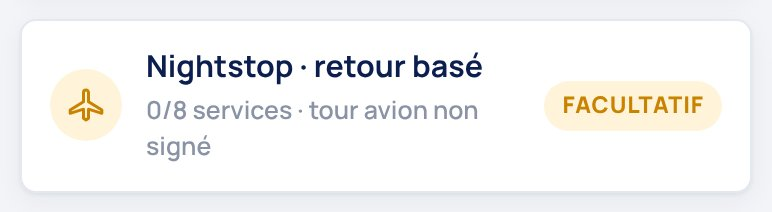
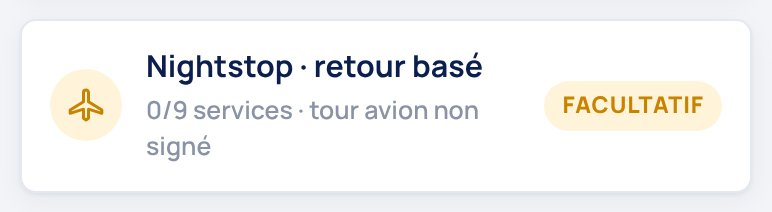
v3.51.3: Nightstop interrupteurs Oui/Non, GPU, cases par défaut retour/départ basé, croix déplaçable par appui long
Claude-Session: https://claude.ai/code/session_01BEmDqkNWhievWY6FKKJQpQ

Changed region(s): [[0.2176, 0.4811, 0.6218, 0.566]]

diff --git a/nightstop.js b/nightstop.js
@@ -5,7 +5,8 @@
    Facultative pour l'instant, comme l'auto-contrôle (NS_REQUIRED = false) :
    deviendra obligatoire avec le serveur des rapports.
    Données du vol dans le champ caché Nightstop :
-   { sv:{ toilV, toilR, eauV, eauR, men:'S'|'DC'|'DI'|'', ech, asu, tr:'BELLOVA'|'ASSISTAIR'|'', deg, dec },
+   { sv:{ toilV, toilR, eauV, eauR, men:'S'|'DC'|'DI'|'', gpu, ech, asu, tr:'BELLOVA'|'ASSISTAIR'|'', deg, dec },
+     def:'arr'|'dep' (cases par défaut posées), touched (services modifiés à la main),
      hs:{ on, ok, n, h, s },                       fouille soutes (retour basé, arrivée pays tiers)
      ta:{ sv:'OUI'|'NON'|'', dm:'OUI'|'NON'|'', x:[[u,v]…], n, h, s } }   tour avion
    Les croix sont en coordonnées relatives (0 à 1) sur la silhouette img/silhouette-b737.png.
@@ -17,17 +18,24 @@ const NS_REQUIRED = false;
   const esc = v => String(v == null ? '' : v).replace(/[&<>"]/g, c => ({'&':'&amp;','<':'&lt;','>':'&gt;','"':'&quot;'}[c]));
   const IMG = './img/silhouette-b737.png';
 
-  // Services de la feuille papier (GPU, connexion / déconnexion retirés ; ménage Tidy / Full remplacé par S, DC, DI)
+  // Services de la feuille papier (connexion / déconnexion GPU retirées ; ménage Tidy / Full remplacé par S, DC, DI)
+  // tg : interrupteur Oui / Non (Non par défaut)
   const SV = [
     { k:'toil', t:'Toilettes', opts:[['toilV','Vidange'], ['toilR','Remplissage']] },
     { k:'eau',  t:'Eau potable', opts:[['eauV','Vidange'], ['eauR','Remplissage']] },
     { k:'men',  t:'Ménage', one:'men', opts:[['S','S'], ['DC','DC'], ['DI','DI']] },
-    { k:'ech',  t:'2 échelles', opts:[['ech','Fait']] },
-    { k:'asu',  t:'ASU', opts:[['asu','Fait']] },
+    { k:'gpu',  t:'GPU', tg:true, opts:[['gpu','Oui']] },
+    { k:'ech',  t:'2 échelles', tg:true, opts:[['ech','Oui']] },
+    { k:'asu',  t:'ASU', tg:true, opts:[['asu','Oui']] },
     { k:'tr',   t:'Tractage', one:'tr', opts:[['BELLOVA','Bellova'], ['ASSISTAIR','Assist\'Air']] },
-    { k:'deg',  t:'Dégivrage', opts:[['deg','Fait']] },
-    { k:'dec',  t:'Collecte déchets', opts:[['dec','Fait']] },
+    { k:'deg',  t:'Dégivrage', tg:true, opts:[['deg','Oui']] },
+    { k:'dec',  t:'Collecte déchets', tg:true, opts:[['dec','Oui']] },
   ];
+  // Cases cochées d'office à la première ouverture (Hugo) : retour basé / départ basé
+  const SV_DEF = {
+    arr:{ toilV:true, eauV:true, men:'S', gpu:true, dec:true },
+    dep:{ toilR:true, eauR:true },
+  };
 
   window.nsMode = function(){
     if(val('From') === 'BVA') return 'dep';
@@ -49,7 +57,7 @@ const NS_REQUIRED = false;
   }
   const svDone = o => SV.filter(s => s.one ? !!o.sv[s.one] : s.opts.some(([k]) => o.sv[k])).length;
   function started(o){
-    return svDone(o) > 0 || o.hs.on || o.ta.sv || o.ta.dm || o.ta.x.length || o.ta.n || o.ta.s;
+    return (o.touched && svDone(o) > 0) || o.hs.on || o.ta.sv || o.ta.dm || o.ta.x.length || o.ta.s;
   }
   function date(){
     const d = ($('Date')?.value || '').split('-');
@@ -109,8 +117,15 @@ const NS_REQUIRED = false;
       + '<div><small>Type</small><b class="ns-mode">' + (m === 'arr' ? 'Arrivée' : 'Départ') + '</b></div>'
       + '</div>';
 
+    // cases par défaut, tant que les services n'ont pas été touchés à la main
+    if(m && !o.touched && o.def !== m){ o.sv = Object.assign({}, SV_DEF[m]); o.def = m; set(o); }
     h += '<div class="ac-sec">Services</div><div class="ac-card ns-sv">';
     SV.forEach(s => {
+      if(s.tg){
+        const on = !!o.sv[s.k];
+        h += '<div class="ns-row"><span>' + s.t + '</span><button type="button" class="ns-tg' + (on ? ' on' : '') + '" data-tg="' + s.k + '" role="switch" aria-checked="' + on + '"><b>' + (on ? 'Oui' : 'Non') + '</b><i></i></button></div>';
+        return;
+      }
       h += '<div class="ns-row"><span>' + s.t + '</span><span class="ns-cs">'
         + s.opts.map(([k, t]) => chip(s.one ? o.sv[s.one] === k : !!o.sv[k], s.one ? 'data-one="' + s.one + '" data-v="' + k + '"' : 'data-sv="' + k + '"', t)).join('')
         + '</span></div>';
@@ -151,10 +166,14 @@ const NS_REQUIRED = false;
   const upd = fn => { const o = get(); fn(o); set(o); };
   function bind(){
     const body = $('nsBody');
-    body.querySelectorAll('[data-sv]').forEach(b => b.onclick = () => { upd(o => o.sv[b.dataset.sv] = !o.sv[b.dataset.sv]); b.classList.toggle('on'); });
+    body.querySelectorAll('[data-sv]').forEach(b => b.onclick = () => { upd(o => { o.sv[b.dataset.sv] = !o.sv[b.dataset.sv]; o.touched = 1; }); b.classList.toggle('on'); });
+    body.querySelectorAll('[data-tg]').forEach(b => b.onclick = () => {
+      const k = b.dataset.tg; upd(o => { o.sv[k] = !o.sv[k]; o.touched = 1; });
+      const on = !!get().sv[k]; b.classList.toggle('on', on); b.setAttribute('aria-checked', on); b.querySelector('b').textContent = on ? 'Oui' : 'Non';
+    });
     body.querySelectorAll('[data-one]').forEach(b => b.onclick = () => {
       const k = b.dataset.one, v = b.dataset.v;
-      upd(o => o.sv[k] = o.sv[k] === v ? '' : v);
+      upd(o => { o.sv[k] = o.sv[k] === v ? '' : v; o.touched = 1; });
       body.querySelectorAll('[data-one="' + k + '"]').forEach(x => x.classList.toggle('on', x === b && get().sv[k] === v));
     });
     body.querySelectorAll('[data-hs]').forEach(b => b.onclick = () => { upd(o => o.hs.on = b.dataset.hs === 'on'); render(); requestAnimationFrame(() => document.querySelectorAll('#nsBody canvas[data-sig]').forEach(sigInit)); });
@@ -267,19 +286,56 @@ const NS_REQUIRED = false;
   };
   window.nsFullUndo = function(){ upd(o => o.ta.x.pop()); fullPaint(); };
   window.nsFullClear = function(){ upd(o => o.ta.x = []); fullPaint(); };
-  function fullTap(e){
-    const img = $('nsFullPlane').querySelector('img'); if(!img) return;
+  // position (u, v) de 0 à 1 sur la silhouette ; téléphone tenu en portrait : la scène est tournée de 90°
+  function fullUV(e){
+    const img = $('nsFullPlane').querySelector('img'); if(!img) return null;
     const r = img.getBoundingClientRect();
-    // téléphone tenu en portrait : la scène est tournée de 90° (coordonnées à convertir)
     let u, v;
     if($('nsFull').classList.contains('rot')){ u = (e.clientY - r.top) / r.height; v = (r.right - e.clientX) / r.width; }
     else { u = (e.clientX - r.left) / r.width; v = (e.clientY - r.top) / r.height; }
-    if(u < 0 || u > 1 || v < 0 || v > 1) return;
     const ar = img.naturalWidth && img.naturalHeight ? img.naturalWidth / img.naturalHeight : 2.33;
+    return { u, v, ar };
+  }
+  const clamp = n => Math.min(1, Math.max(0, n));
+  const nearX = (x, p) => x.findIndex(([a, b]) => Math.hypot((a - p.u) * p.ar, b - p.v) < 0.045);
+  // appui court : pose une croix, ou retire celle touchée. Appui long (0,35 s) sur une croix : on la fait glisser
+  let press = null;
+  function fullDown(e){
+    const p = fullUV(e); if(!p) return;
+    e.preventDefault();
+    $('nsFullPlane').setPointerCapture?.(e.pointerId);
+    const i = nearX(get().ta.x, p);
+    press = { id:e.pointerId, x:e.clientX, y:e.clientY, p, i, drag:false, moved:false };
+    if(i >= 0) press.t = setTimeout(() => {
+      if(!press || press.moved) return;
+      press.drag = true;
+      const el = $('nsFullPlane').querySelectorAll('.ns-x')[i]; if(el) el.classList.add('is-drag');
+      try{ navigator.vibrate && navigator.vibrate(15); }catch(err){}
+    }, 350);
+  }
+  function fullMove(e){
+    if(!press || e.pointerId !== press.id) return;
+    if(Math.hypot(e.clientX - press.x, e.clientY - press.y) > 8) press.moved = true;
+    if(!press.drag) return;
+    e.preventDefault();
+    const p = fullUV(e), el = $('nsFullPlane').querySelectorAll('.ns-x')[press.i];
+    if(p && el){ press.p = p; el.style.left = (clamp(p.u) * 100).toFixed(2) + '%'; el.style.top = (clamp(p.v) * 100).toFixed(2) + '%'; }
+  }
+  function fullUp(e){
+    if(!press || e.pointerId !== press.id) return;
+    const pr = press; press = null; clearTimeout(pr.t);
+    if(e.type === 'pointercancel') return fullPaint();
+    if(pr.drag){
+      upd(o => { if(o.ta.x[pr.i]) o.ta.x[pr.i] = [+clamp(pr.p.u).toFixed(4), +clamp(pr.p.v).toFixed(4)]; });
+      return fullPaint();
+    }
+    if(pr.moved) return;
+    const p = pr.p;
+    if(p.u < 0 || p.u > 1 || p.v < 0 || p.v > 1) return;
     upd(o => {
-      const near = o.ta.x.findIndex(([a, b]) => Math.hypot((a - u) * ar, b - v) < 0.045);
+      const near = nearX(o.ta.x, p);
       if(near >= 0) o.ta.x.splice(near, 1);
-      else { o.ta.x.push([+u.toFixed(4), +v.toFixed(4)]); o.ta.dm = 'OUI'; }
+      else { o.ta.x.push([+p.u.toFixed(4), +p.v.toFixed(4)]); o.ta.dm = 'OUI'; }
     });
     fullPaint();
   }
@@ -306,7 +362,7 @@ const NS_REQUIRED = false;
     const sec = t => { c.fillStyle = '#E9EDF3'; c.fillRect(P, y, W - 2 * P, 34); c.fillStyle = '#0B1E4F'; c.font = '800 16px Manrope, sans-serif'; c.fillText(t.toUpperCase(), P + 12, y + 17); y += 34; };
     const row = (k, v) => { c.strokeStyle = '#d5dde7'; c.lineWidth = 1; c.strokeRect(P, y, W - 2 * P, 32); c.fillStyle = '#0f1723'; c.font = '600 17px Manrope, sans-serif'; c.fillText(k, P + 12, y + 16); c.font = '700 17px Manrope, sans-serif'; c.fillText(v, W / 2, y + 16); y += 32; };
     sec('Services');
-    SV.forEach(s => row(s.t, s.one ? (s.opts.find(([k]) => k === o.sv[s.one]) || ['', '—'])[1] : s.opts.filter(([k]) => o.sv[k]).map(([, t]) => t).join(' + ') || '—'));
+    SV.forEach(s => row(s.t, s.tg ? (o.sv[s.k] ? 'Oui' : 'Non') : s.one ? (s.opts.find(([k]) => k === o.sv[s.one]) || ['', '—'])[1] : s.opts.filter(([k]) => o.sv[k]).map(([, t]) => t).join(' + ') || '—'));
     if(m === 'arr' && o.hs.on){ y += 12; sec('Fouille des soutes · arrivée pays tiers'); row('Hold security check / search', o.hs.ok ? 'Effectué' : 'Non coché'); row('Nom · heure', (o.hs.n || '—') + ' · ' + (o.hs.h || '--:--') + (o.hs.s ? '  · signé' : '')); }
     y += 12; sec('Tour avion');
     row('Soutes vidées et contrôlées', o.ta.sv || '—');
@@ -371,7 +427,10 @@ const NS_REQUIRED = false;
   function init(){
     const f = $('nsFull');
     if(f){
-      $('nsFullPlane').addEventListener('click', fullTap);
+      const fp = $('nsFullPlane');
+      fp.addEventListener('pointerdown', fullDown); fp.addEventListener('pointermove', fullMove);
+      fp.addEventListener('pointerup', fullUp); fp.addEventListener('pointercancel', fullUp);
+      fp.addEventListener('contextmenu', e => e.preventDefault());
       window.addEventListener('resize', () => {
         if(f.style.display !== 'none') fullLayout();
         if($('nsModal').style.display !== 'none') document.querySelectorAll('#nsBody canvas[data-sig]').forEach(sigInit);

diff --git a/manuel.html b/manuel.html
@@ -132,7 +132,7 @@ mark{background:var(--mark);color:inherit;border-radius:3px;padding:0 1px}
 <script>
 // Contenu du manuel : [groupe, id, titre, captures (manuel/img/*.jpg), texte HTML]
 // IMGV : à changer quand des captures sont refaites (sinon le navigateur garde les anciennes)
-const IMGV = '7';
+const IMGV = '8';
 const I = (f, c) => [f, c];
 // gros plans (captures recadrées, haute définition) affichés sous le texte de la rubrique
 const ZM = {
@@ -291,11 +291,11 @@ const S = [
 <p><span class="k">Feuille</span> partage ou télécharge la feuille en image. Elle est <b>facultative</b> pour valider dans la version actuelle, et deviendra <b>obligatoire</b> une fois le serveur des rapports mis en place.</p>`],
 ['Retard et validation','nightstop','Nightstop & tour avion',[I('nightstop','Prestations'),I('nightstop-tour','Tour avion')],`
 <p>Pour les vols basés : <b>départ basé</b> (From = BVA) et <b>retour basé</b> (To = BVA). La ligne <span class="k">Nightstop</span> apparaît alors dans l'onglet Retard, au-dessus de Valider le vol. Elle remplace la feuille papier « Checklist &amp; suivi des prestations nightstop » remise au responsable piste.</p>
-<ul><li><b>Prestations</b> : toilettes et eau potable (vidange / remplissage), ménage <b>S / DC / DI</b>, 2 échelles, ASU, tractage (Bellova / Assist'Air), dégivrage, collecte déchets. Un appui coche ou décoche.</li>
+<ul><li><b>Prestations</b> : toilettes et eau potable (vidange / remplissage), ménage <b>S / DC / DI</b>, tractage (Bellova / Assist'Air), et des interrupteurs <b>Oui / Non</b> (Non par défaut) pour GPU, 2 échelles, ASU, dégivrage et collecte déchets. Cases cochées d'office à l'ouverture : <b>retour basé</b> = vidange toilettes, vidange eau potable, ménage S, GPU et collecte déchets ; <b>départ basé</b> = remplissage toilettes et remplissage eau potable. Tout reste modifiable.</li>
 <li><b>Fouille des soutes</b> (hold security search) : retour basé uniquement, à activer quand le vol arrive d'un pays tiers. Nom, heure et signature.</li>
 <li><b>Tour avion</b> : soutes vidées et contrôlées, dommages constatés, nom, heure et signature.</li></ul>
 <p>L'<b>heure</b> se remplit toute seule à la signature (modifiable, ou <span class="k">Now</span>). Le <b>nom</b> saisi pour la fouille est repris pour le tour avion, et inversement ; les noms déjà utilisés sont proposés en suggestion.</p>
-<p>Les dommages se notent par des <b>croix sur la silhouette</b> : dès qu'une croix est posée, « Dommage(s) constaté(s) » passe à <b>Oui</b> et ne peut plus être mis à Non tant qu'il reste une croix. <span class="k">Plein écran</span> passe la silhouette en grand, en paysage (si le téléphone est tenu droit, l'image pivote d'elle-même). Un appui pose une croix, un appui sur une croix l'enlève ; <span class="k">Annuler la dernière</span> et <span class="k">Tout effacer</span> sont dans la barre du haut.</p>
+<p>Les dommages se notent par des <b>croix sur la silhouette</b> : dès qu'une croix est posée, « Dommage(s) constaté(s) » passe à <b>Oui</b> et ne peut plus être mis à Non tant qu'il reste une croix. <span class="k">Plein écran</span> passe la silhouette en grand, en paysage (si le téléphone est tenu droit, l'image pivote d'elle-même). Un appui pose une croix, un appui sur une croix l'enlève, un <b>appui long</b> sur une croix permet de la faire glisser ailleurs ; <span class="k">Annuler la dernière</span> et <span class="k">Tout effacer</span> sont dans la barre du haut.</p>
 <p><span class="k">Feuille</span> partage ou télécharge la feuille complète en image, silhouette comprise. Le contenu est repris dans le rapport du vol.</p>
 <div class="tip info">Feuille <b>facultative</b> dans la version actuelle, comme l'auto-contrôle. Elle deviendra <b>obligatoire</b> une fois le serveur des rapports mis en place.</div>`],
 ['Retard et validation','valider','Valider le vol',[I('retard','Valider le vol')],`

diff --git a/test/ns109.js b/test/ns109.js
@@ -15,13 +15,20 @@ await set('From', 'BVA'); await p.waitForTimeout(1200);
 o.dep = await p.evaluate(() => [nsMode(), document.getElementById('nsRowT').textContent, document.getElementById('nsRowSt').textContent]);
 await set('From', 'OPO'); await set('To', 'BVA'); await p.waitForTimeout(1200);
 await p.click('#nsRow'); await p.waitForTimeout(400);
-await p.click('[data-sv="toilV"]'); await p.click('[data-one="men"][data-v="DI"]'); await p.click('[data-one="tr"][data-v="ASSISTAIR"]');
+// v3.51.3 : cases par défaut du retour basé, interrupteur GPU
+o.def = await p.evaluate(() => { const d = JSON.parse(document.getElementById('Nightstop').value).sv; return [d.toilV, d.eauV, d.men, d.gpu, d.dec, !!d.toilR, document.querySelector('[data-tg="ech"]').textContent, nsSummary().started]; });
+await p.click('[data-tg="ech"]'); o.tg = await p.evaluate(() => [document.querySelector('[data-tg="ech"]').textContent, JSON.parse(document.getElementById('Nightstop').value).sv.ech]);
+await p.click('[data-sv="toilR"]'); await p.click('[data-one="men"][data-v="DI"]'); await p.click('[data-one="tr"][data-v="ASSISTAIR"]');
 await p.click('[data-hs="on"]'); await p.waitForTimeout(200); o.hsShown = await p.locator('[data-hsok]').count();
 await p.click('#nsFullBtn'); await p.waitForTimeout(500);
 const r = await p.evaluate(() => { const q = document.querySelector('#nsFullPlane img').getBoundingClientRect(); return { x:q.left, y:q.top, w:q.width, h:q.height, rot:document.getElementById('nsFull').classList.contains('rot') }; });
 await p.mouse.click(r.x + r.w * 0.5, r.y + r.h * 0.3);            // portrait : u = 0.3, v = 0.5
 await p.mouse.click(r.x + r.w * 0.5, r.y + r.h * 0.3 + 2);        // même endroit : retire la croix
 await p.mouse.click(r.x + r.w * 0.2, r.y + r.h * 0.6);            // u = 0.6, v = 0.8
+// appui long sur la croix restante (u 0.6, v 0.8) puis glissé vers u 0.4 (portrait : x = right - v*w, y = top + u*h)
+await p.mouse.move(r.x + r.w * 0.2, r.y + r.h * 0.6); await p.mouse.down(); await p.waitForTimeout(500);
+await p.mouse.move(r.x + r.w * 0.2, r.y + r.h * 0.5, { steps:4 }); await p.mouse.move(r.x + r.w * 0.2, r.y + r.h * 0.4, { steps:4 }); await p.mouse.up();
+o.drag = await p.evaluate(() => JSON.parse(document.getElementById('Nightstop').value).ta.x);
 await p.evaluate(() => nsFullClose());
 o.data = await p.evaluate(() => { const d = JSON.parse(document.getElementById('Nightstop').value); return { sv:d.sv, x:d.ta.x, dm:d.ta.dm, hs:d.hs.on }; });
 // v3.51.1 : croix présente = Non désactivé et sans effet, plus de bloc Équipage, plus de plein écran système
@@ -30,5 +37,5 @@ o.v511 = await p.evaluate(() => { const n = document.querySelector('[data-ta="dm
 o.report = await p.evaluate(() => nsReport().split('\n').filter(Boolean).slice(0, 6).join(' | '));
 const ok = o.hiddenOutside && o.dep[0] === 'dep' && /départ basé/.test(o.dep[1]) && o.dep[2] === 'Facultatif' && o.hsShown === 1 && r.rot
   && o.data.sv.toilV && o.data.sv.men === 'DI' && o.data.sv.tr === 'ASSISTAIR' && o.data.x.length === 1
-  && Math.abs(o.data.x[0][0] - 0.6) < 0.02 && Math.abs(o.data.x[0][1] - 0.8) < 0.02 && o.data.dm === 'OUI' && /RETOUR BASE/.test(o.report) && o.v511.dm === 'OUI' && o.v511.noCrew && o.v511.fs && !/EQUIPAGE/.test(o.report) && !errs.length;
+  && o.def.join() === 'true,true,S,true,true,false,Non,false' && o.tg.join() === 'Oui,true' && o.data.sv.toilR && o.drag.length === 1 && Math.abs(o.drag[0][0] - 0.4) < 0.02 && Math.abs(o.drag[0][1] - 0.8) < 0.02  && o.data.dm === 'OUI' && /RETOUR BASE/.test(o.report) && o.v511.dm === 'OUI' && o.v511.noCrew && o.v511.fs && !/EQUIPAGE/.test(o.report) && !errs.length;
 console.log(JSON.stringify(o), errs.join(' | ') || 'no errors'); console.log(ok ? 'PASS' : 'FAIL'); await b.close(); process.exit(ok ? 0 : 1); })();

diff --git a/index.html b/index.html
@@ -22,7 +22,7 @@
 /* Mise a jour forcee : si version.json (lu sans cache) annonce une autre
    version que celle-ci, on vide les caches et on recharge la page.
    A chaque livraison : changer APP_VERSION ici, dans version.json et les ?v=. */
-window.APP_VERSION = '20261030r219';
+window.APP_VERSION = '20261030r220';
 (function(){
   function check(){
     fetch('./version.json?t=' + Date.now(), { cache: 'no-store' })
@@ -44,8 +44,8 @@ window.APP_VERSION = '20261030r219';
   document.addEventListener('visibilitychange', function(){ if(document.visibilityState === 'visible') check(); });
 })();
 </script>
-<link rel="stylesheet" href="./fonts/fonts.css?v=20261030r219" />
-<link rel="stylesheet" href="./css/app.css?v=20261030r219" />
+<link rel="stylesheet" href="./fonts/fonts.css?v=20261030r220" />
+<link rel="stylesheet" href="./css/app.css?v=20261030r220" />
 </head>
 <body>
 
@@ -1191,20 +1191,20 @@ function digitsOnly(el){ el.value = (el.value || '').replace(/[^0-9]/g, ''); }
 
 <!-- Cache-busting : incrementer ?v= a CHAQUE deploiement pour forcer
      les navigateurs (et iOS) a recharger app.js au lieu du cache. -->
-<script src="./edition.js?v=20261030r219"></script>
-<script src="./cfg.js?v=20261030r219"></script>
-<script src="./contacts.js?v=20261030r219"></script>
-<script src="./app.js?v=20261030r219"></script>
-<script src="./app-load.js?v=20261030r219"></script>
-<script src="./app-onglets.js?v=20261030r219"></script>
-<script src="./app-retard.js?v=20261030r219"></script>
-<script src="./app-timeline.js?v=20261030r219"></script>
-<script src="./app-keeper.js?v=20261030r219"></script>
-<script src="./app-outils.js?v=20261030r219"></script>
-<script src="./demo-auto.js?v=20261030r219"></script>
-<script src="./ui.js?v=20261030r219"></script>
-<script src="./tools.js?v=20261030r219"></script>
-<script src="./nightstop.js?v=20261030r219"></script>
-<script src="./dlcodes.js?v=20261030r219"></script>
+<script src="./edition.js?v=20261030r220"></script>
+<script src="./cfg.js?v=20261030r220"></script>
+<script src="./contacts.js?v=20261030r220"></script>
+<script src="./app.js?v=20261030r220"></script>
+<script src="./app-load.js?v=20261030r220"></script>
+<script src="./app-onglets.js?v=20261030r220"></script>
+<script src="./app-retard.js?v=20261030r220"></script>
+<script src="./app-timeline.js?v=20261030r220"></script>
+<script src="./app-keeper.js?v=20261030r220"></script>
+<script src="./app-outils.js?v=20261030r220"></script>
+<script src="./demo-auto.js?v=20261030r220"></script>
+<script src="./ui.js?v=20261030r220"></script>
+<script src="./tools.js?v=20261030r220"></script>
+<script src="./nightstop.js?v=20261030r220"></script>
+<script src="./dlcodes.js?v=20261030r220"></script>
 </body>
 </html>

diff --git a/css/app.css b/css/app.css
@@ -1616,3 +1616,14 @@ html.dark .ns-c.on{background:#8FA6FF;border-color:#8FA6FF;color:#0B1E4F}
 .ns-pl-full{position:relative}
 .ns-pl-in{position:relative;flex:none}
 .ns-pl-in img{width:100%;height:100%}
+
+/* v3.51.3 · Nightstop : interrupteurs Oui / Non, croix déplaçable (appui long) */
+.ns-tg{flex:none;display:inline-flex;align-items:center;gap:8px;height:34px;padding:0 4px 0 12px;border:1px solid var(--line-strong);border-radius:999px;background:var(--surface-2);color:var(--muted);font:inherit;font-size:.82rem;cursor:pointer;-webkit-tap-highlight-color:transparent}
+.ns-tg b{min-width:26px;text-align:center;font-weight:700}
+.ns-tg i{position:relative;width:44px;height:26px;border-radius:999px;background:var(--line-strong);transition:background .15s}
+.ns-tg i::after{content:"";position:absolute;left:3px;top:3px;width:20px;height:20px;border-radius:50%;background:#fff;box-shadow:0 1px 3px rgba(0,0,0,.25);transition:transform .15s}
+.ns-tg.on{border-color:var(--navy, #0B1E4F);color:var(--fg)}
+.ns-tg.on i{background:var(--navy, #0B1E4F)}
+.ns-tg.on i::after{transform:translateX(18px)}
+.ns-pl-full{touch-action:none;user-select:none;-webkit-user-select:none;-webkit-touch-callout:none}
+.ns-x.is-drag{width:7%;filter:drop-shadow(0 2px 4px rgba(0,0,0,.35))}
